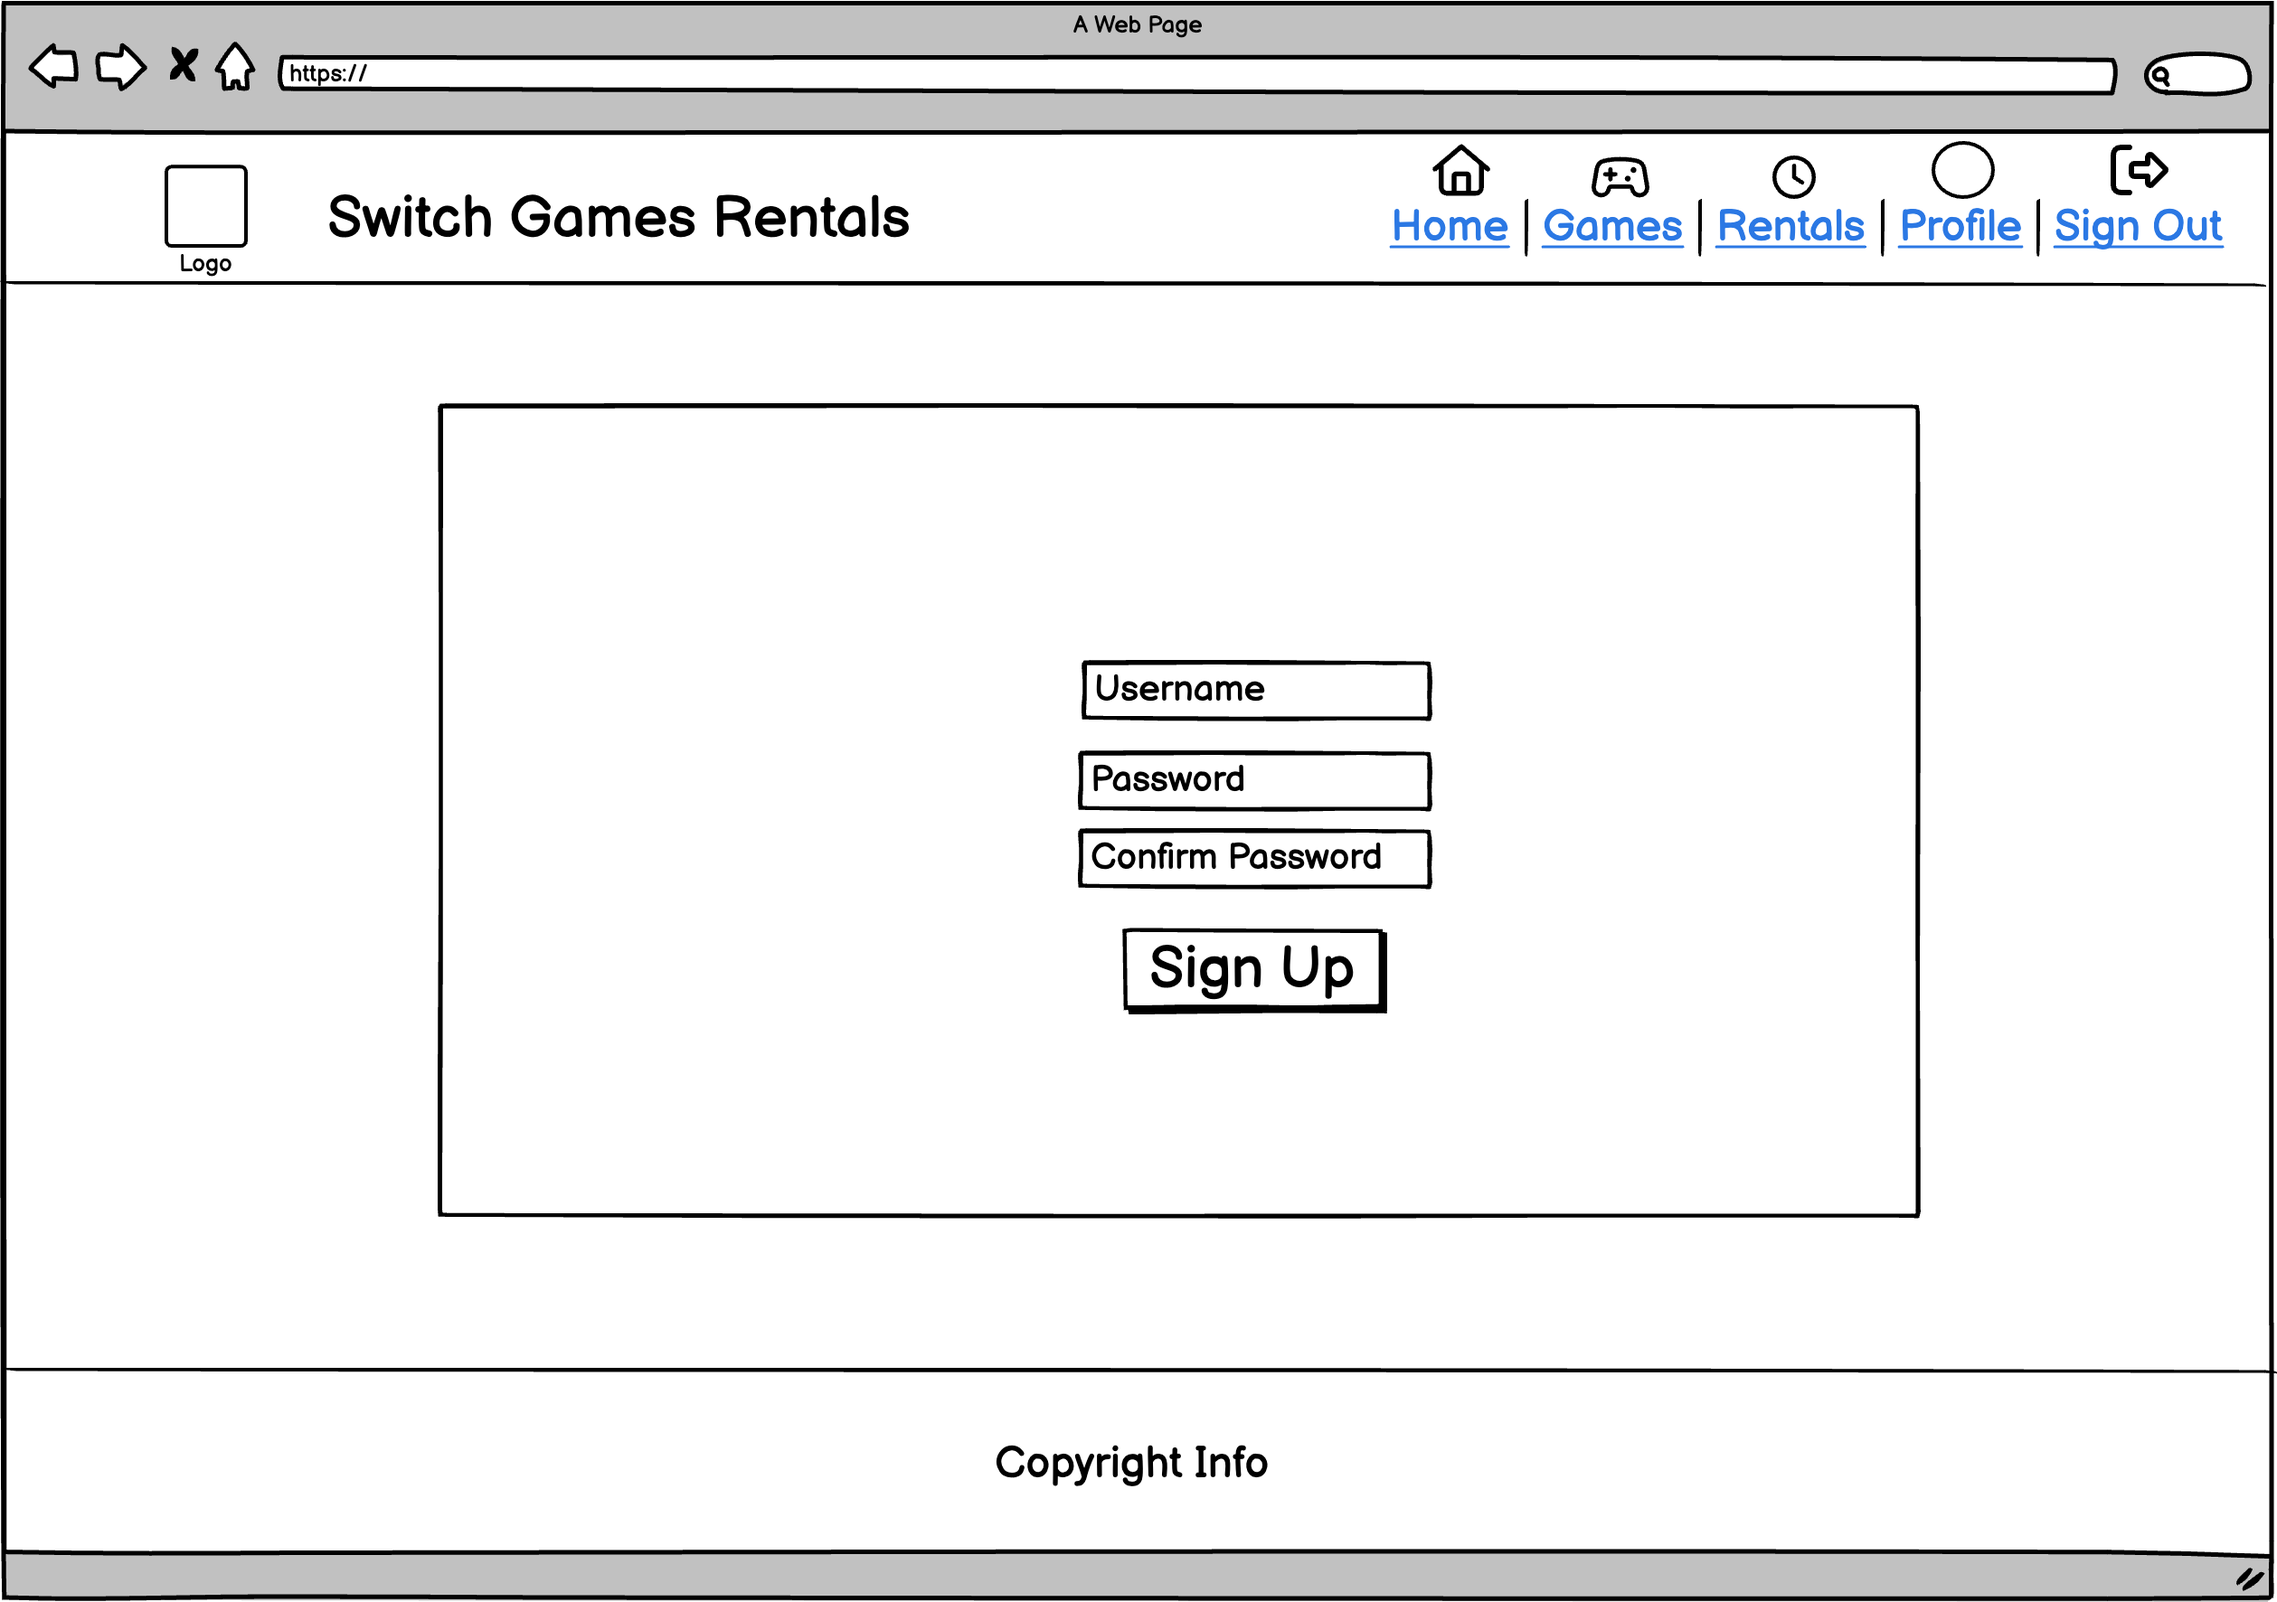
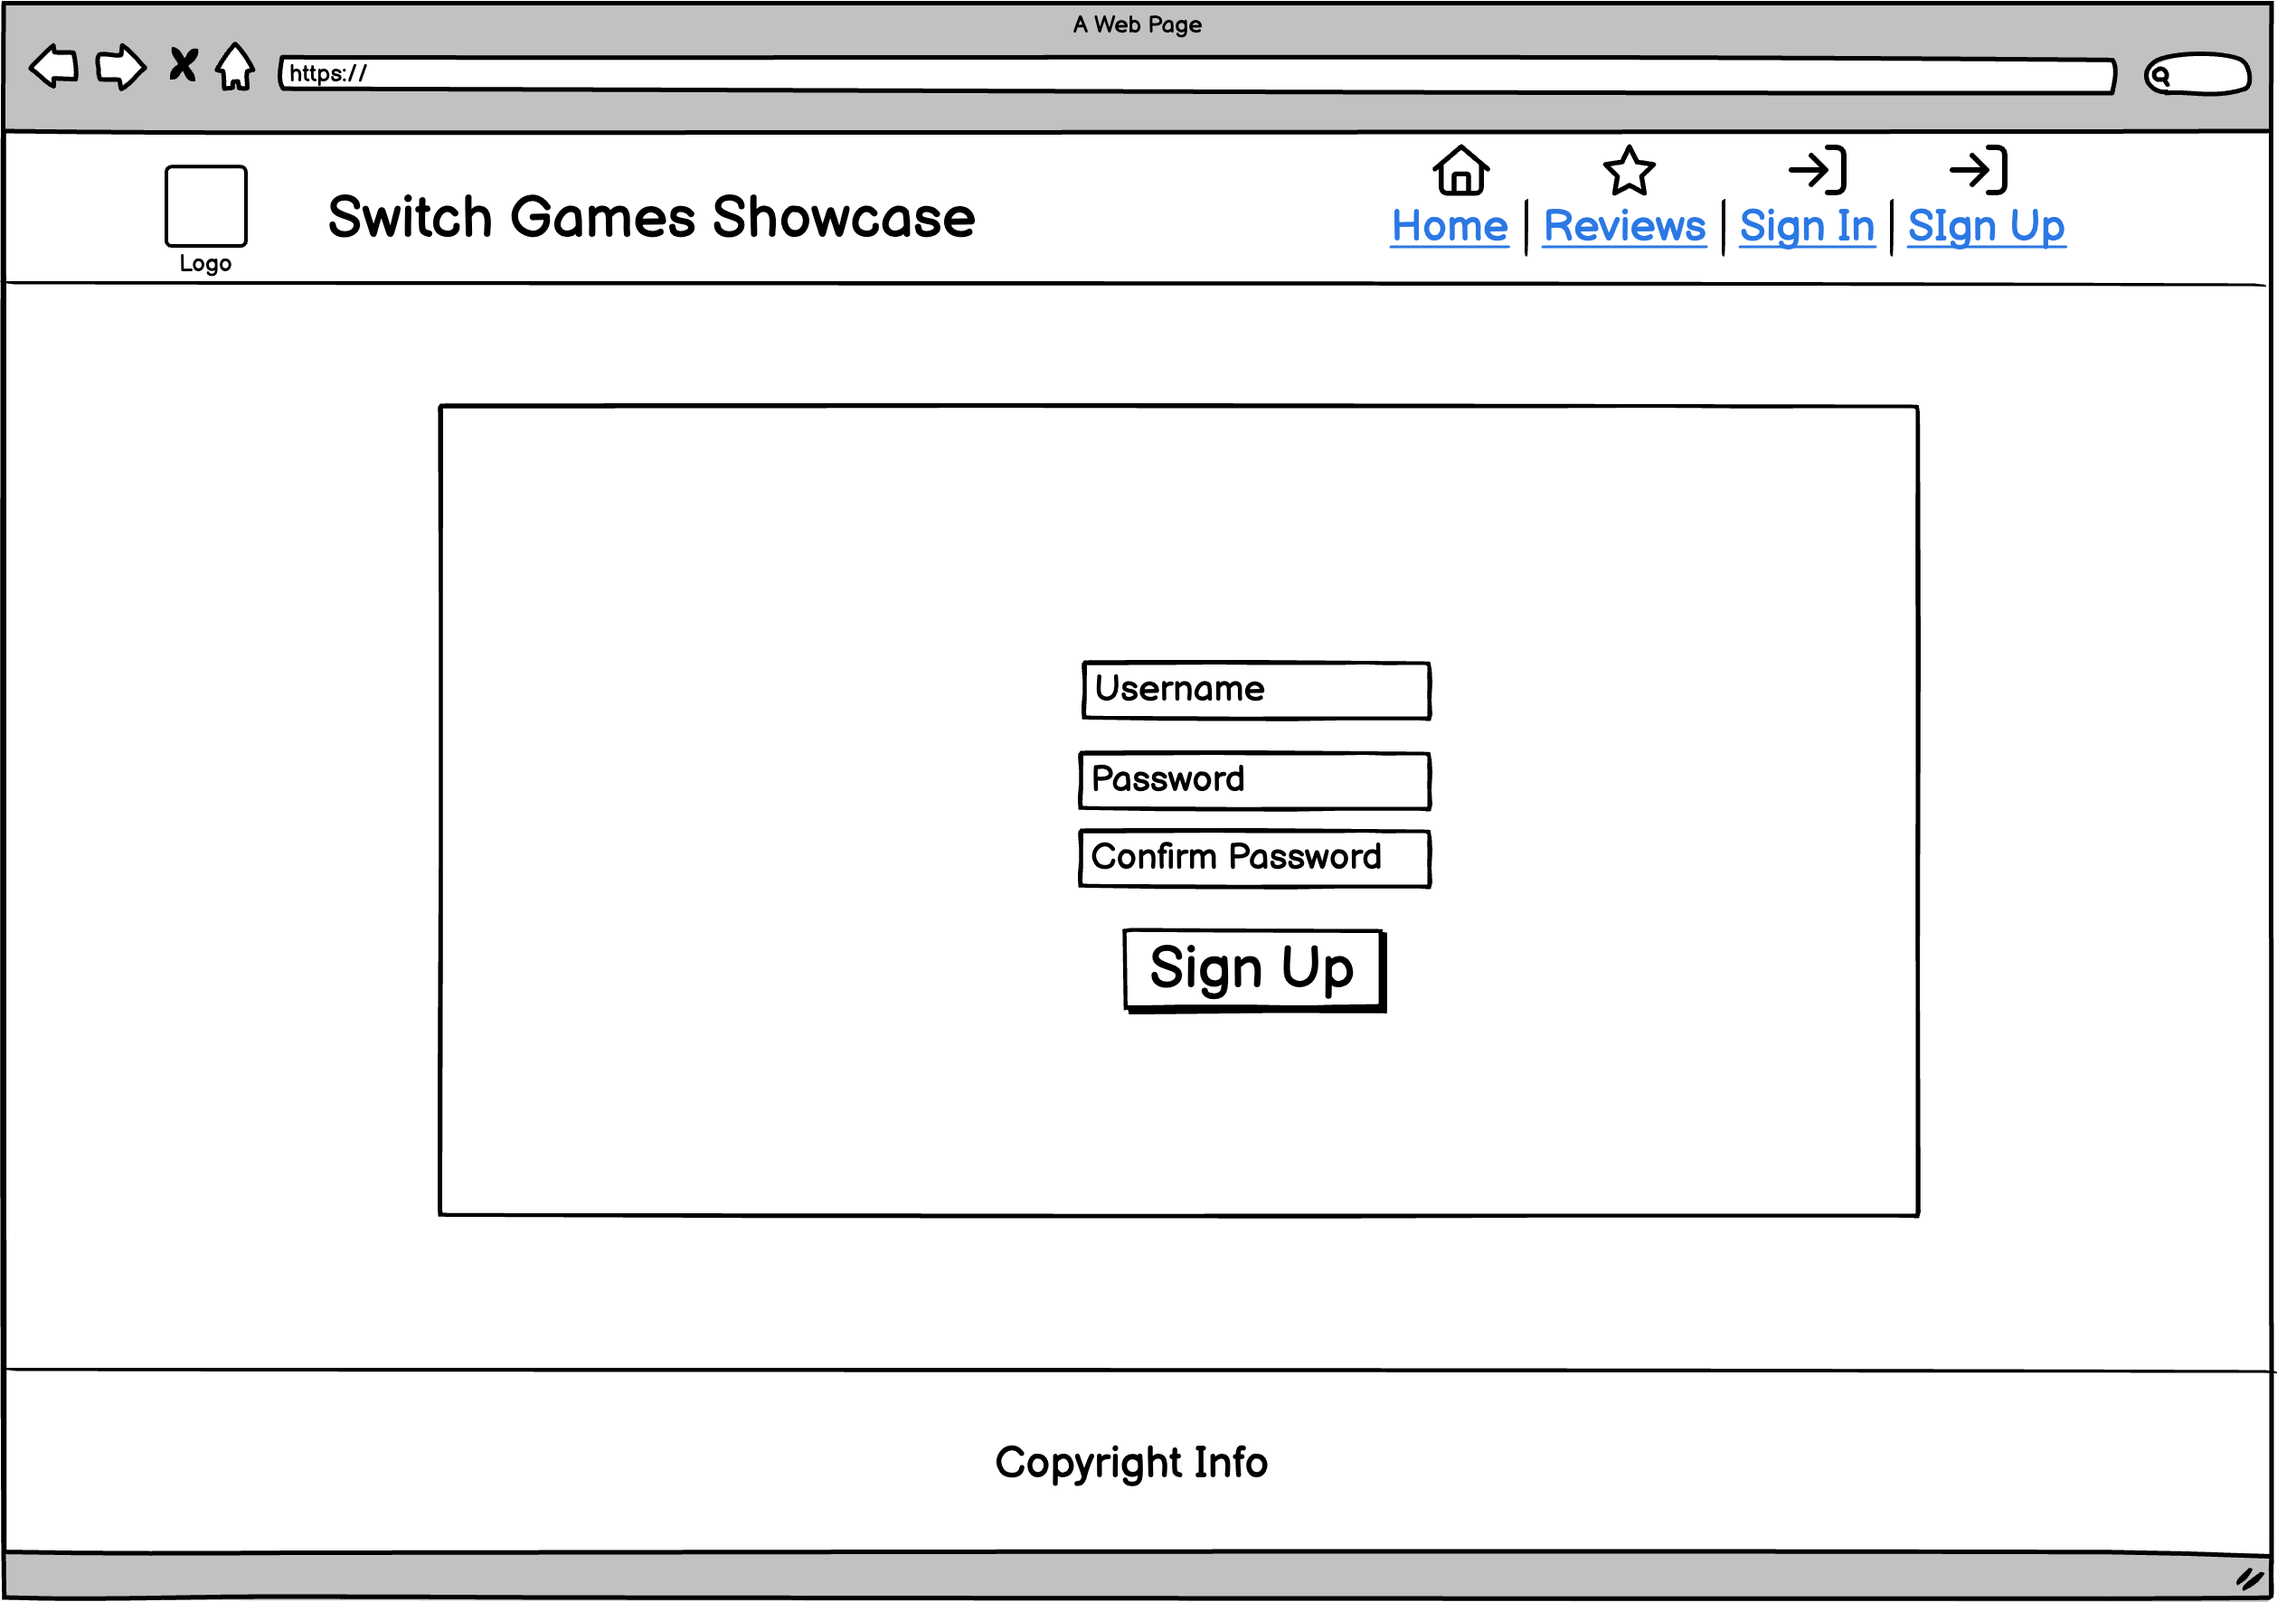
write site goals, structure up to homepage

Changed region(s): [[0.6815, 0.0931, 0.9913, 0.1552], [0.3098, 0.1242, 0.4337, 0.1552]]

diff --git a/README.md b/README.md
@@ -23,21 +23,49 @@ Below you'll find all the images of wireframes: <br>
     <summary>
         Desktop Wireframes
     </summary>
-    <img src="readme/assets/wireframes/desktop-wireframes/home-desktop.png" alt="Desktop Wireframes Mockup">
-    <img src="readme/assets/wireframes/desktop-wireframes/games-desktop.png" alt="Desktop Wireframes Mockup">
-    <img src="readme/assets/wireframes/desktop-wireframes/reviews-desktop.png" alt="Desktop Wireframes Mockup">
-    <img src="readme/assets/wireframes/desktop-wireframes/signin-desktop.png" alt="Desktop Wireframes Mockup">
-    <img src="readme/assets/wireframes/desktop-wireframes/signup-desktop.png" alt="Desktop Wireframes Mockup">
-    <img src="readme/assets/wireframes/desktop-wireframes/profile-desktop.png" alt="Desktop Wireframes Mockup">
+    <img src="readme/assets/wireframes/home-desktop.png" alt="Desktop Wireframes Mockup">
+    <img src="readme/assets/wireframes/games-desktop.png" alt="Desktop Wireframes Mockup">
+    <img src="readme/assets/wireframes/game-detail-desktop.png" alt="Desktop Wireframes Mockup">
+    <img src="readme/assets/wireframes/reviews-desktop.png" alt="Desktop Wireframes Mockup">
+    <img src="readme/assets/wireframes/signin-desktop.png" alt="Desktop Wireframes Mockup">
+    <img src="readme/assets/wireframes/signup-desktop.png" alt="Desktop Wireframes Mockup">
+    <img src="readme/assets/wireframes/profile-desktop.png" alt="Desktop Wireframes Mockup">
 </details>
 <details>
     <summary>
         Mobile Wireframes
     </summary>
-    <img src="readme/assets/wireframes/mobile-wireframes/home-mobile.png" alt="Mobile Wireframes Mockup">
-    <img src="readme/assets/wireframes/mobile-wireframes/games-mobile.png" alt="Mobile Wireframes Mockup">
-    <img src="readme/assets/wireframes/mobile-wireframes/reviews-mobile.png" alt="Mobile Wireframes Mockup">
+    <img src="readme/assets/wireframes/home-mobile.png" alt="Mobile Wireframes Mockup">
+    <img src="readme/assets/wireframes/games-mobile.png" alt="Mobile Wireframes Mockup">
+    <img src="readme/assets/wireframes/game-detail-mobile.png" alt="Mobile Wireframes Mockup">
+    <img src="readme/assets/wireframes/reviews-mobile.png" alt="Mobile Wireframes Mockup">
     <img src="readme/assets/wireframes/mobile-wireframes/signin-mobile.png" alt="Mobile Wireframes Mockup">
     <img src="readme/assets/wireframes/mobile-wireframes/signup-mobile.png" alt="Mobile Wireframes Mockup">
     <img src="readme/assets/wireframes/mobile-wireframes/profile-mobile.png" alt="Mobile Wireframes Mockup">
 </details>
+
+### Site Goals
+Switch Games Showcase aims to be the ultimate platofrm for Nintendo gamers to explore, review, and engage with their favorite games. By offering a robust set of features:
+
+- **Connect Gamers**: Foster a community where Nintendo Switch enthusiasts can share their thoughts, reviews, and experiences.
+- **Enhance Discovery**: Provide users with tools to discover new games and learn about them through community-driven content.
+- **Facilitate Engagement**: Enable users to interact with each other through reviews, comments, and likes, creating a vibrant and dynamic platform.
+- **Provide Insights**: Offer in-depth reviews and ratings to help users make informed decisions about which games to play.
+
+### Structure 
+#### Home 
+- **Game Feed**: Displays a vertical stack of game posts, allowing users to see brief information about each game, including title, cover image, genre, like and commend counts, and a short description. Each post is designed to be informative and visually appealing to encourage exploration and engagement.
+
+- **Search Bar**: Positioned prominently, the search bar enables users to quickly and easily find specific games or discover new ones based on keywords or filters. This feature enhances user convenience by providing instant access to a wide array of games.
+
+- **Followed Users Section**: This section highlights users that being followed most, making it easy to keep up with their game posts and reviews. It fosters community interaction by encouraging users to connect with other gamers.
+
+##### User Goal
+- Browse a curated feed of Nintendo Switch games shared by the community.
+- Quickly search for and find games using the search bar.
+- Follow other users and keep up with their latest posts and reviews.
+
+###### Website Goal
+- Provide a dynamic and engaging experience that encourages exploration of new and popular games.
+- Facilitate community interaction and engagement through easy-to-use features.
+- Ensure that users can quickly access the most relevant and interesting content.
